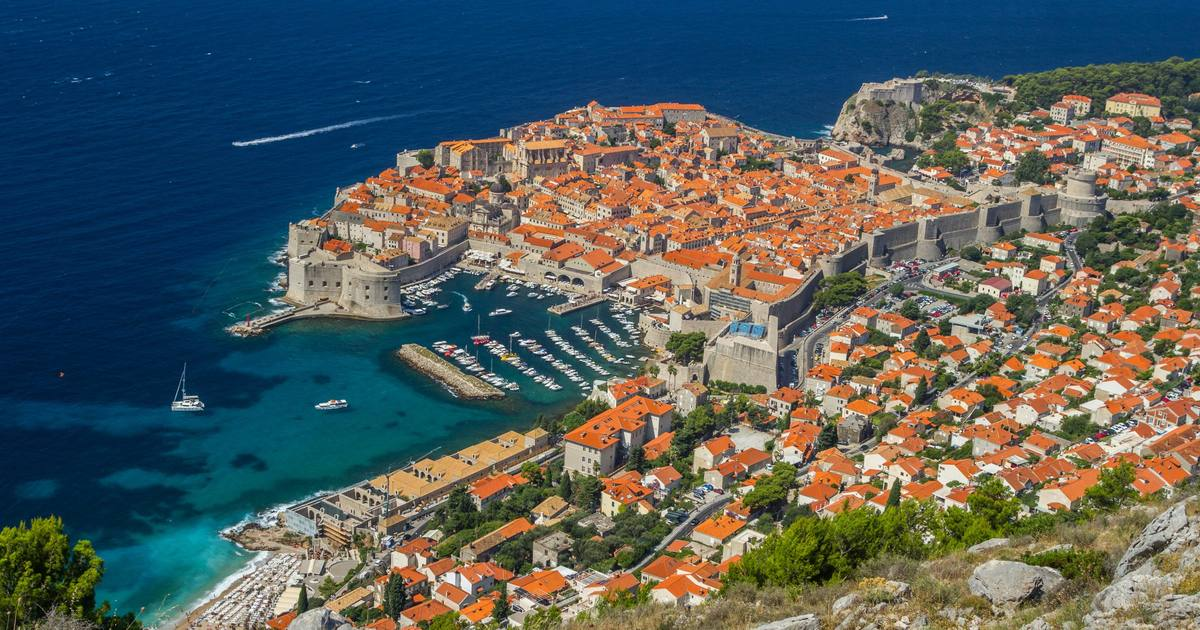
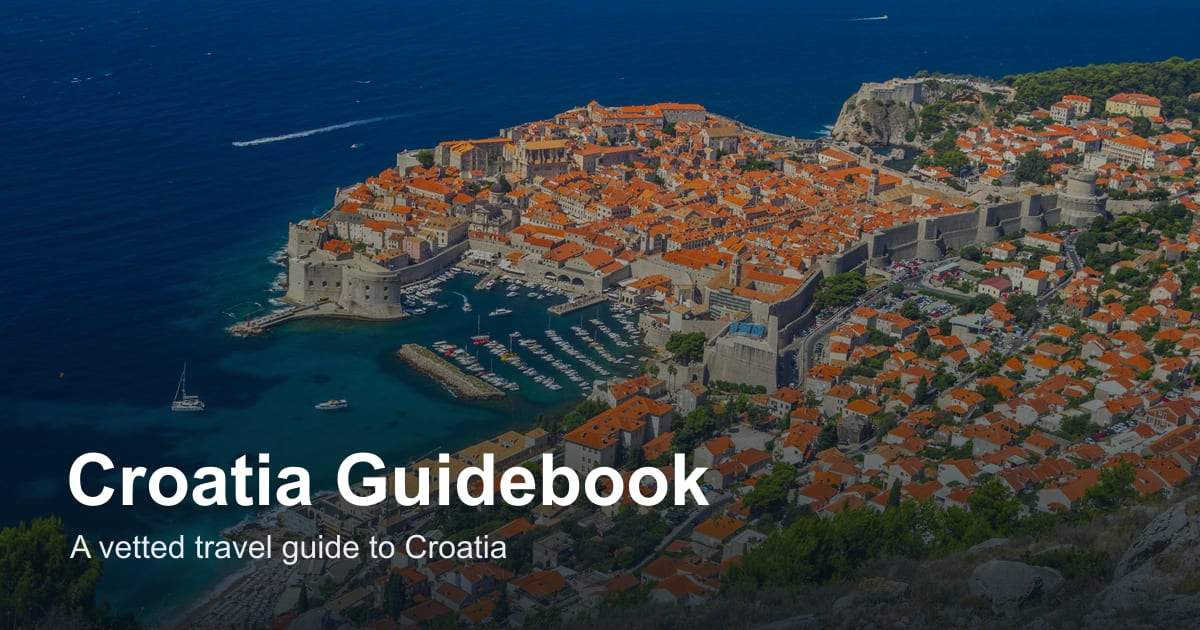
fix(hero): improve homepage image rotation
Refresh homepage hero output quality and make rotation update in the open page, while keeping social previews and HTTPS routing consistent.

diff --git a/public/js/hero-rotate.js b/public/js/hero-rotate.js
@@ -4,10 +4,9 @@
  * <script type="application/json" id="hero-variants"> (data-блок, не исполняется
  * → CSP-безопасен, как JSON-LD).
  *
- * Кадр выбирается по текущему 3-часовому окну времени (floor(now/periodMs) % N):
- * меняется каждые 3 часа, без бэкенда. Скрипт подключён сразу за <img id="heroBg">
- * (классический, не defer) → src ставится рано (LCP §15). Кредит #heroCredit ниже
- * по DOM → обновляем на DOMContentLoaded.
+ * Первый кадр выбирается по текущему временному окну, затем открытая вкладка
+ * переключает hero по таймеру. Скрипт подключён сразу за <img id="heroBg">
+ * (классический, не defer) → src ставится рано (LCP §15).
  */
 (function () {
   const el = document.getElementById('hero-variants');
@@ -24,21 +23,56 @@
   const list = cfg.variants || [];
   if (!list.length) return;
 
-  const i = Math.floor(Date.now() / (cfg.periodMs || 10800000)) % list.length;
-  const v = list[i];
+  let i = Math.floor(Date.now() / (cfg.periodMs || 10800000)) % list.length;
 
-  if (avifSource && v.avifSrcset) avifSource.srcset = v.avifSrcset;
-  img.srcset = v.webpSrcset;
-  img.src = v.src;
-  if (v.focus) img.style.objectPosition = v.focus;
+  if (!matchMedia('(prefers-reduced-motion: reduce)').matches) {
+    img.style.transition = 'opacity 700ms ease';
+  }
 
-  const setCredit = () => {
+  const setCredit = (v) => {
     const c = document.getElementById('heroCredit');
     if (c) {
       c.href = v.href;
       c.textContent = (cfg.prefix || 'Photo') + ': ' + v.credit;
     }
   };
-  if (document.readyState !== 'loading') setCredit();
-  else document.addEventListener('DOMContentLoaded', setCredit);
+
+  const show = (n) => {
+    const v = list[n];
+    if (!v) return;
+    if (avifSource && v.avifSrcset) avifSource.srcset = v.avifSrcset;
+    img.srcset = v.webpSrcset;
+    img.src = v.src;
+    if (v.focus) img.style.objectPosition = v.focus;
+    setCredit(v);
+  };
+
+  show(i);
+  if (document.readyState === 'loading') {
+    document.addEventListener('DOMContentLoaded', () => setCredit(list[i]));
+  }
+
+  if (list.length > 1 && !matchMedia('(prefers-reduced-motion: reduce)').matches) {
+    const intervalMs = cfg.rotateMs || 12000;
+    let timer = null;
+    const tick = () => {
+      i = (i + 1) % list.length;
+      img.style.opacity = '0';
+      window.setTimeout(() => {
+        show(i);
+        window.setTimeout(() => (img.style.opacity = '1'), 450);
+      }, 250);
+    };
+    const start = () => {
+      if (!timer) timer = window.setInterval(tick, intervalMs);
+    };
+    const stop = () => {
+      if (timer) {
+        window.clearInterval(timer);
+        timer = null;
+      }
+    };
+    document.addEventListener('visibilitychange', () => (document.hidden ? stop() : start()));
+    start();
+  }
 })();

diff --git a/worker/index.ts b/worker/index.ts
@@ -28,6 +28,19 @@ interface Env {
 const DATA = partnersData as unknown as PartnersMap;
 const SAFE_FALLBACK = '/';
 
+function httpsRedirect(url: URL): Response | null {
+  if (url.protocol !== 'http:') return null;
+  const target = new URL(url.href);
+  target.protocol = 'https:';
+  return new Response(null, {
+    status: 301,
+    headers: {
+      Location: target.href,
+      'X-Content-Type-Options': 'nosniff',
+    },
+  });
+}
+
 /** Фолбэк обязан быть относительным путём своего сайта (анти open-redirect). */
 function safeFallback(origin: string): string {
   const fallback = DATA.fallback ?? SAFE_FALLBACK;
@@ -75,6 +88,9 @@ function handleGo(url: URL): Response {
 export default {
   fetch(request: Request, env: Env): Response | Promise<Response> {
     const url = new URL(request.url);
+    const redirect = httpsRedirect(url);
+    if (redirect) return redirect;
+
     if (request.method === 'GET' && url.pathname.startsWith('/go/')) {
       return handleGo(url);
     }

diff --git a/PROGRESS.md b/PROGRESS.md
@@ -45,3 +45,7 @@
 - **Добор перелинковки:** при выходе `7-day-croatia-itinerary` и `best-time-to-visit-croatia` заменить ссылки-на-хабы в `zagreb-travel-guide` (×3 языка) на прямые ссылки на эти статьи (двунаправленный кластер). Аналогично для `dubrovnik-travel-guide`: при выходе `dubrovnik-game-of-thrones-locations`, `one-day-in-dubrovnik`, `dubrovnik-city-walls`, `day-trips-from-dubrovnik`, island-hopping route и `best-time` заменить ссылки-на-хабы на прямые (×3 языка).
 - **R5 — запуск:** P1, добор до 10+ пар, недельный ритуал §17.
 - **Отложенные фиксы:** `ROADMAP-FIX.md` (overflow 320px, добор фото статьи, www, политика конфиденциальности, dev-зависимости).
+
+## 2026-06-25 — Hero/OG/HTTPS
+- Главная: hero-кадры пересобираются в более высоком качестве (до 1920px AVIF / 1600px WebP; убрано чрезмерное сжатие `q:22/24`), и ротация теперь меняет фото в открытой вкладке по таймеру, а не только при новой загрузке страницы. Также обновлены брендированный `og-default.jpg`, `og:image:secure_url` и HTTP→HTTPS 301 в Worker.
+- Проверки: `npm run check`, `npm run build`, `npm test`, `npm run lint` — зелёные.